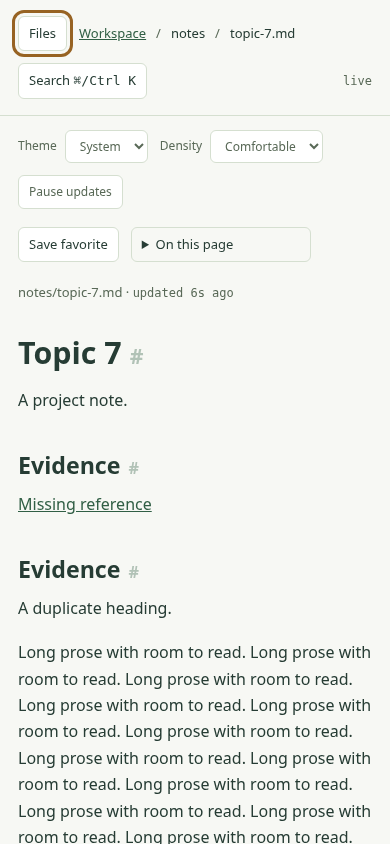
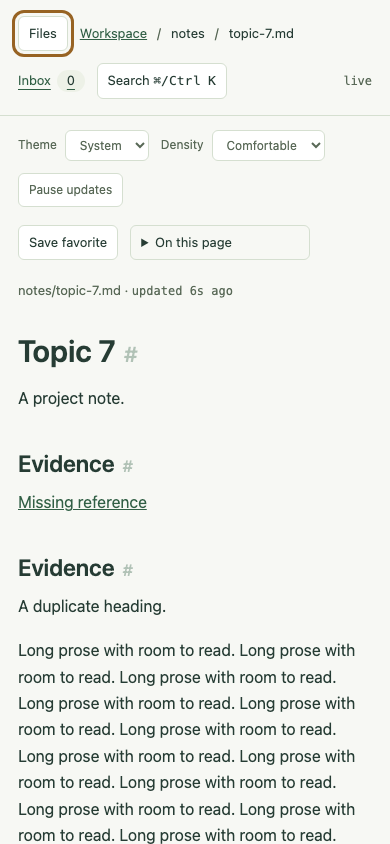
Navigation keeps the narrow top-bar Inbox, proves file reveal in a DOM test and drops the Python browser script

diff --git a/packages/work-board/src/page/sidebarScript.dom.test.ts b/packages/work-board/src/page/sidebarScript.dom.test.ts
@@ -97,3 +97,17 @@ it("dismisses the narrow drawer with Escape or outside tap and restores focus wi
 	page.window.dispatchEvent(new page.window.Event("resize"));
 	await waitFor(() => expect(sidebar.hidden).toBe(true));
 });
+
+it("scrolls the project tree to reveal the selected file after navigation", async () => {
+	await open(1440);
+	const files = element("files");
+	function rect(top: number, bottom: number) {
+		return new page.window.DOMRect(0, top, 240, bottom - top);
+	}
+	files.getBoundingClientRect = () => rect(0, 100);
+	page.window.HTMLAnchorElement.prototype.getBoundingClientRect = () => rect(400 - files.scrollTop, 420 - files.scrollTop);
+	files.scrollTop = 0;
+	click('#files a[href="/notes/topic-6.md"]');
+	await waitFor(() => expect(element("doc").dataset.file).toBe("notes/topic-6.md"));
+	await waitFor(() => expect(files.scrollTop).toBe(320));
+});

diff --git a/packages/work-board/src/page/workspaceStyles.ts b/packages/work-board/src/page/workspaceStyles.ts
@@ -55,7 +55,6 @@ button, select { padding: 6px 10px; border: 1px solid var(--border); border-radi
   html[data-js] .sidebar { position: fixed; inset: 0 auto 0 0; width: min(320px, calc(100vw - 48px)); z-index: 4; }
   html[data-js] .sidebar-backdrop:not([hidden]) { display: block; position: fixed; inset: 0; z-index: 3; background: rgb(0 0 0 / .45); }
   html:not([data-js]) .sidebar { position: relative; height: 100dvh; }
-  #inbox-topbar { display: none; }
   .brand { padding-bottom: 16px; }
   .bar { flex-wrap: wrap; gap: 12px; }
   .breadcrumbs { flex-basis: calc(100% - 100px); }

diff --git a/packages/work-board/docs/delivery/browser-acceptance.md b/packages/work-board/docs/delivery/browser-acceptance.md
@@ -26,20 +26,10 @@ Open the printed URL in a real browser. Record the browser/version, viewport, ac
 2. Reload, press Tab, then Enter on **Skip to content**. Focus moves to the main content. Tab through Files, Theme, Density, folder summaries, and file links; focus must be visible. Open a nested document and check its file location.
 3. Select Dark and Compact, collapse Files, then reload and open another file. All three choices persist. Select Light with the operating system in dark mode; code colors and diagrams follow Light. Return to System and switch the system scheme; diagrams redraw. Changing density alone must not redraw them.
 4. Open `notes/flow & details.md`. Wait for the real diagram and open Review notes. Append a paragraph to that file in the printed fixture folder. The paragraph appears, details stay open, and the unchanged diagram stays drawn.
-5. In a fresh browser context at 390 × 844, verify Files starts collapsed, the board uses one column, and the page does not scroll horizontally. Open Files: an overlay drawer contains the fixed Home, Inbox, Overview, Work, Changes and Diagnostics rows, and the project tree scrolls independently. Escape and an outside tap close the drawer and return focus to Files. Close it and open a document. Also check at 200% zoom.
+5. In a fresh browser context at 390 × 844, verify Files starts collapsed, the board uses one column, and the page does not scroll horizontally. The top bar keeps Inbox with its count. Open Files: an overlay drawer contains the fixed Home, Inbox, Overview, Work, Changes and Diagnostics rows, and the project tree scrolls independently. Escape and an outside tap close the drawer and return focus to Files. Close it and open a document. Also check at 200% zoom.
 6. Disable JavaScript and reload. Content and navigation remain readable. With browser storage blocked, enable JavaScript and change appearance: controls work and explain that choices apply only to the current page.
 
 The fixture includes duplicate headings, a missing link, long prose, an encoded filename, a diagram, details, and malformed example metadata. The additional `identityFixture()` supplies richer items, explicit references, and recorded claims. Performance timings from this fixture are observations, not established budgets or proof of the north star's usability targets.
-
-## Automated navigation layout check
-
-With workspace dependencies, browser assets (`pnpm --filter @shivaedev/work-board test:prepare`), Python Playwright and its Chromium installed, run from the repository root:
-
-```sh
-python packages/work-board/src/test-support/navigationBrowser.py /tmp/navigation-evidence
-```
-
-This synthetic 50-document fixture checks fixed row positions across five visits, separate tree scrolling, selection visibility after navigation and browser Back, the bounded history dialog, and drawer dismissal/focus containment at 1440 × 1000 and 390 × 844. It saves screenshots at both widths and checks the 768px breakpoint. Chromium's sandbox must be available. These checks establish browser layout and interactions for the fixture; they do not establish physical-device or representative-reader acceptance.
 
 ## Document navigation acceptance — step 02
 

diff --git a/packages/work-board/README.md b/packages/work-board/README.md
@@ -169,7 +169,7 @@ The view refreshes through the native page query every 15 seconds while visible.
 
 #### Find what waits on you
 
-The sidebar and desktop top bar offer **Inbox** with a live count. On narrow screens, open Files to reach Inbox. It lists open human-owned next actions, open questions (including registered questions on ordinary attention sources), and work whose status is `needs-human`. Fleet's open managed decisions appear there too, until their exact-context acknowledgement retires them. Each row links to the source and shows the reason and time since the source last changed. Overview links to an Inbox count summary. The Work board/table mark the same items as **Waiting on you** while keeping every card in its recorded status column. Missing or duplicated item IDs remain listed with a visible problem and a link to each source. Ages of 48 hours or more use days.
+The sidebar and top bar offer **Inbox** with a live count, including on narrow screens. It lists open human-owned next actions, open questions (including registered questions on ordinary attention sources), and work whose status is `needs-human`. Fleet's open managed decisions appear there too, until their exact-context acknowledgement retires them. Each row links to the source and shows the reason and time since the source last changed. Overview links to an Inbox count summary. The Work board/table mark the same items as **Waiting on you** while keeping every card in its recorded status column. Missing or duplicated item IDs remain listed with a visible problem and a link to each source. Ages of 48 hours or more use days.
 
 Owner labels are local conventions: `codex`, `claude`, `fleet`, `agent`, `automation`, `bot` and `copilot`, including labels beginning with those names followed by a dash, underscore, dot, space or slash, denote automation. Other nonblank owner labels denote people. A human owner needs a nonblank `next_action` to enter the Inbox. Statuses `closed`, `done`, `completed`, `cancelled`, `canceled`, `resolved` and `released` leave the queue. These rules classify waiting work; they do not edit the recorded status.
 

diff --git a/packages/work-board/docs/roadmap.md b/packages/work-board/docs/roadmap.md
@@ -8,7 +8,7 @@ The reading, response, handoff and result-review implementation has these capabi
 
 | Steps | Capability | Evidence |
 | --- | --- | --- |
-| [01](delivery/wave1.md#01-a-real-workspace-shell) | Workspace shell, theme/density/sidebar preferences | `src/page/shell.test.ts`, `src/page/client.dom.test.ts`, `src/page/sidebarScript.dom.test.ts`; `src/test-support/navigationBrowser.py` checks navigation layout at desktop and narrow widths |
+| [01](delivery/wave1.md#01-a-real-workspace-shell) | Workspace shell, theme/density/sidebar preferences | `src/page/shell.test.ts`, `src/page/client.dom.test.ts`, `src/page/sidebarScript.dom.test.ts` |
 | [02](delivery/wave1.md#02-document-locations-and-reading-state) | Passage links, reading navigation, favorites and recents | `src/render/documentHeadings.test.ts`, `src/page/navigationScript.dom.test.ts` |
 | [03](delivery/wave1.md#03-find-work-from-anywhere) | Local deterministic search and command dialog | `src/search/entries.test.ts`, `src/http/search.test.ts`, `src/page/searchRequests.dom.spec.ts` |
 | [04](delivery/wave1.md#04-optional-identity-and-a-rebuildable-index) | Optional identity, metadata and rebuildable reference index | `src/metadata/parse.test.ts`, `src/metadata/model.test.ts`, `src/http/identity.test.ts` |
